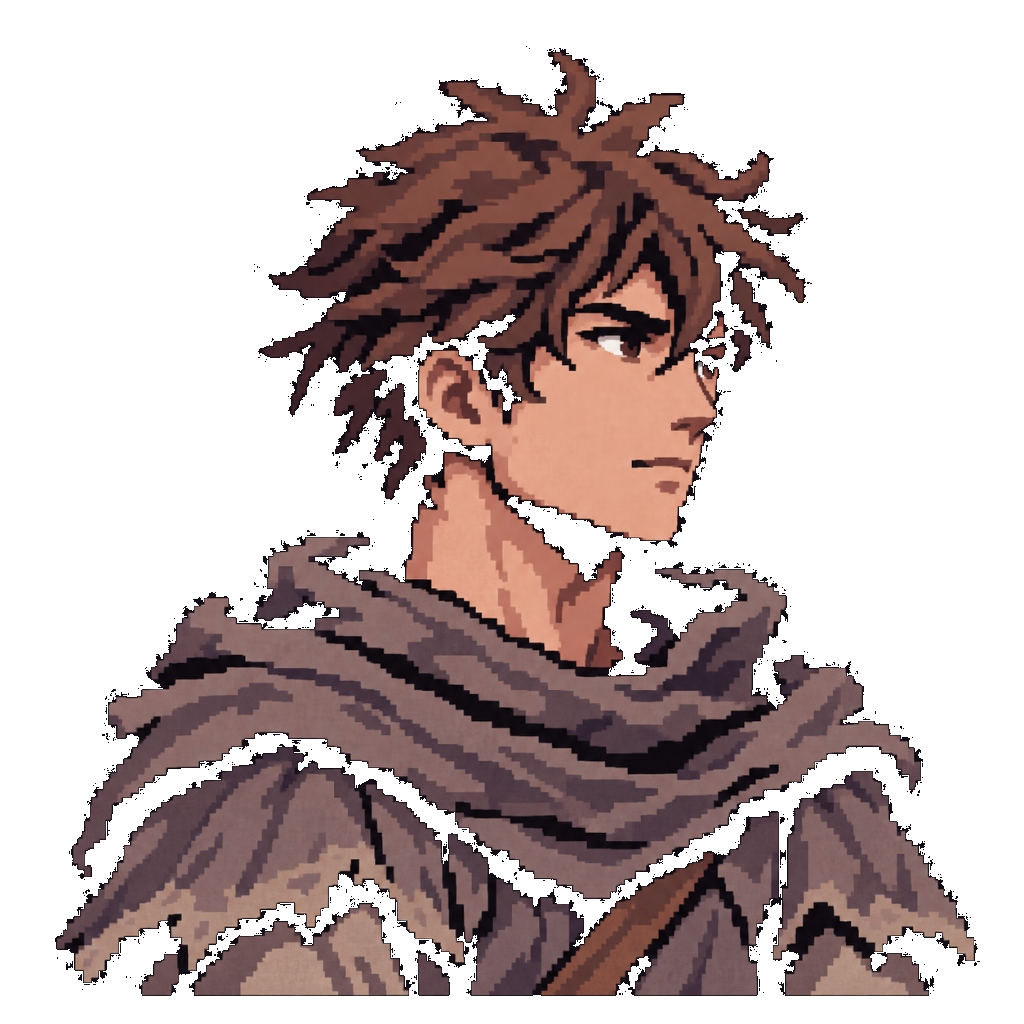
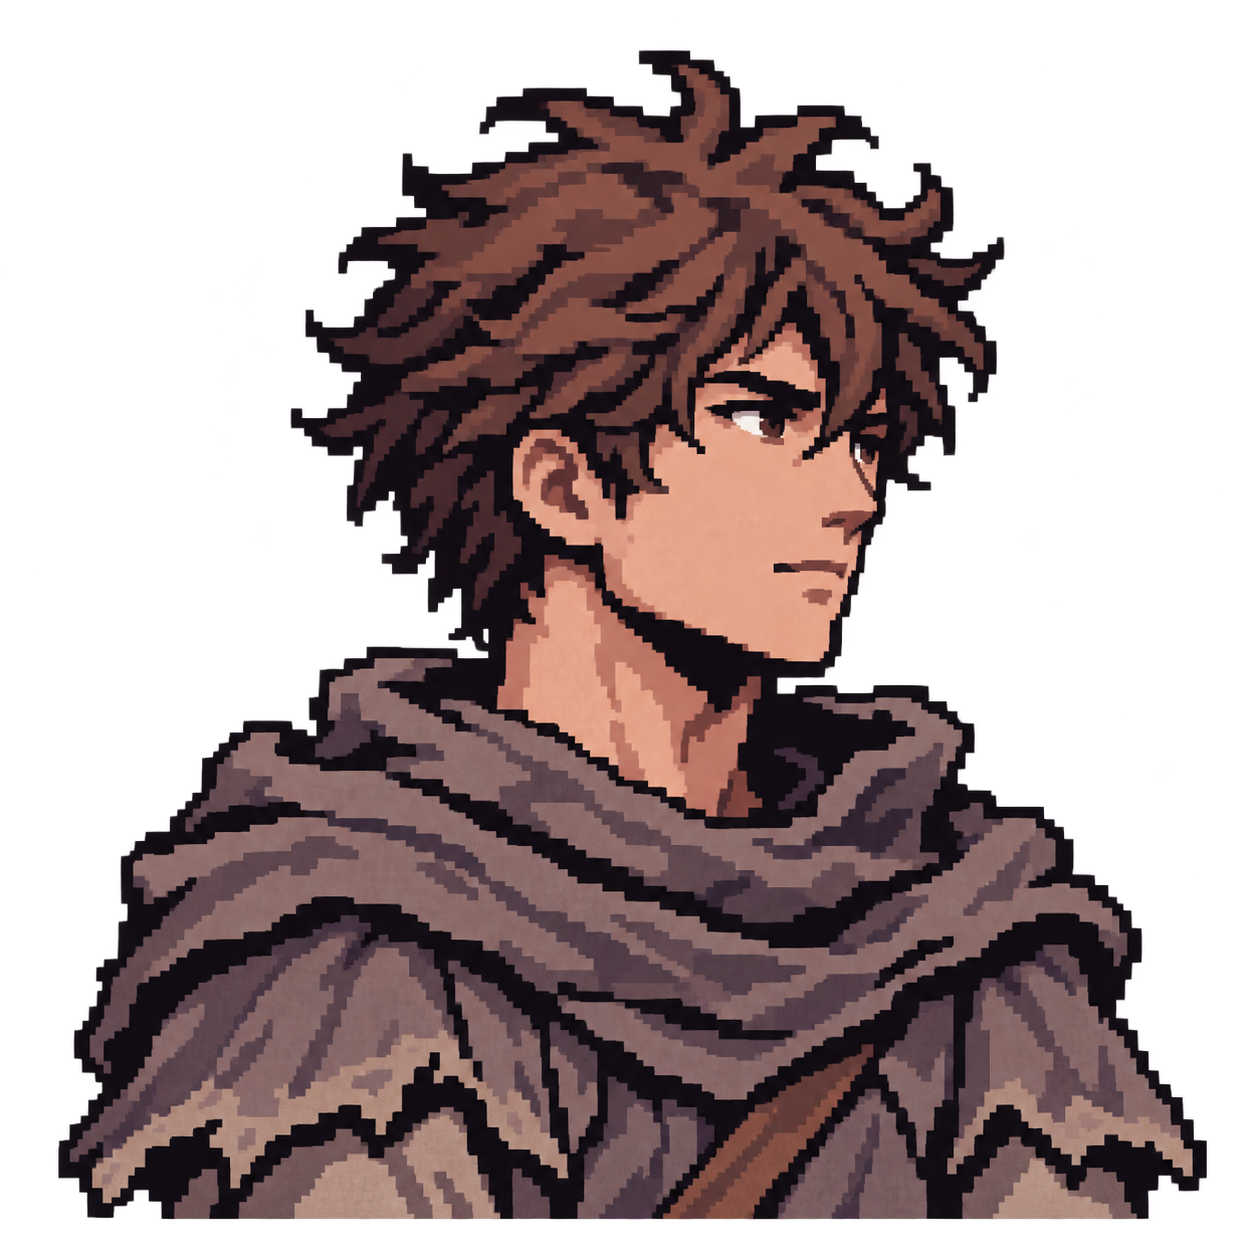
feat(assets): integrate Thomas 4-frame walk animation cycle, high-definition portraits, and master cinematic illustrations

diff --git a/src/presentation/scenes/GameScene.ts b/src/presentation/scenes/GameScene.ts
@@ -25,9 +25,9 @@ export class GameScene extends Phaser.Scene {
 
   // Visual Sprites & Ground Shadows
   private bgImage!: Phaser.GameObjects.Image;
-  private playerSprite!: Phaser.GameObjects.Image;
+  private playerSprite!: Phaser.GameObjects.Sprite;
   private playerShadow!: Phaser.GameObjects.Ellipse;
-  private allySprite!: Phaser.GameObjects.Image;
+  private allySprite!: Phaser.GameObjects.Sprite;
   private allyShadow!: Phaser.GameObjects.Ellipse;
   private shalemSprite!: Phaser.GameObjects.Image;
   private shalemShadow!: Phaser.GameObjects.Ellipse;
@@ -178,6 +178,16 @@ export class GameScene extends Phaser.Scene {
     // 4.1 Atmospheric Vignette
     this.add.image(320, 180, 'fx_vignette').setDisplaySize(640, 360).setDepth(350).setAlpha(0.6);
 
+    // 4.2 Walking Animations
+    if (!this.anims.exists('thomas_walk_anim')) {
+      this.anims.create({
+        key: 'thomas_walk_anim',
+        frames: this.anims.generateFrameNumbers('thomas_walk', { start: 0, end: 3 }),
+        frameRate: 7,
+        repeat: -1
+      });
+    }
+
     // 5. Player & Shadows (2.5D Depth Arena)
     const initX = 110;
     const initY = 260;
@@ -185,7 +195,8 @@ export class GameScene extends Phaser.Scene {
 
     this.playerShadow = this.add.ellipse(initX, initY, 26, 8, 0x000000, 0.45).setDepth(initY - 1);
     const playerTex = this.player.id === 'thomas' ? 'thomas_idle' : 'khaterine_idle';
-    this.playerSprite = this.add.image(initX, initY, playerTex).setOrigin(0.5, 1).setDepth(initY);
+    const playerOriginY = this.player.id === 'thomas' ? 0.9 : 1.0;
+    this.playerSprite = this.add.sprite(initX, initY, playerTex).setOrigin(0.5, playerOriginY).setDepth(initY);
 
     // 6. Ally Companion (Walking alongside in 2.5D)
     const allyInitX = 65;
@@ -193,7 +204,8 @@ export class GameScene extends Phaser.Scene {
     this.allyChar.position = new Vector2(allyInitX, allyInitY);
     this.allyShadow = this.add.ellipse(allyInitX, allyInitY, 24, 7, 0x000000, 0.4).setDepth(allyInitY - 1);
     const allyTex = this.allyChar.id === 'thomas' ? 'thomas_idle' : 'khaterine_idle';
-    this.allySprite = this.add.image(allyInitX, allyInitY, allyTex).setOrigin(0.5, 1).setAlpha(0.92).setDepth(allyInitY);
+    const allyOriginY = this.allyChar.id === 'thomas' ? 0.9 : 1.0;
+    this.allySprite = this.add.sprite(allyInitX, allyInitY, allyTex).setOrigin(0.5, allyOriginY).setAlpha(0.92).setDepth(allyInitY);
 
     // 7. Shalem Sprite (Cat Companion in 2.5D)
     const catInitX = 85;
@@ -406,7 +418,7 @@ export class GameScene extends Phaser.Scene {
 
         // Spawn afterimage ghost
         const ghost = this.add.image(this.playerSprite.x, this.playerSprite.y, this.playerSprite.texture.key)
-          .setOrigin(0.5, 1)
+          .setOrigin(0.5, this.playerSprite.originY)
           .setAlpha(0.6)
           .setScale(this.playerSprite.scaleX, this.playerSprite.scaleY)
           .setTint(0x9933ff)
@@ -498,6 +510,13 @@ export class GameScene extends Phaser.Scene {
       }
       this.player.move(moveX, moveY);
 
+      // Play walk animation if player is Thomas and not disarmed
+      if (this.player.id === 'thomas' && !this.player.disarmManager.isPlayerDisarmed()) {
+        if (!this.playerSprite.anims.isPlaying || this.playerSprite.anims.currentAnim?.key !== 'thomas_walk_anim') {
+          this.playerSprite.play('thomas_walk_anim');
+        }
+      }
+
       // 2.5D Perspective Scaling (scale smoothly between 0.88 and 1.10)
       const scale = 0.88 + ((nextY - 205) / 110) * 0.22;
       this.playerSprite.setScale(this.player.facingDirection > 0 ? scale : -scale, scale);
@@ -507,12 +526,31 @@ export class GameScene extends Phaser.Scene {
       this.playerShadow.setPosition(nextX, nextY).setDepth(nextY - 1).setScale(scale);
     } else {
       this.player.move(0, 0);
+      if (this.player.id === 'thomas' &&
+          this.player.state !== CharacterState.ATTACKING &&
+          this.player.state !== CharacterState.DODGING) {
+        if (this.playerSprite.anims.isPlaying) {
+          this.playerSprite.stop();
+        }
+        const isDisarmed = this.player.disarmManager.isPlayerDisarmed();
+        const idleTex = isDisarmed ? 'thomas_disarmed' : 'thomas_idle';
+        if (this.playerSprite.texture.key !== idleTex) {
+          this.playerSprite.setTexture(idleTex);
+        }
+      }
     }
   }
 
   private swapActiveCharacter(): void {
     this.audio.playSfx('dodge');
     this.cameras.main.flash(200, 160, 80, 240);
+
+    if (this.playerSprite.anims.isPlaying) {
+      this.playerSprite.stop();
+    }
+    if (this.allySprite.anims.isPlaying) {
+      this.allySprite.stop();
+    }
 
     // Swap characters
     const temp = this.player;
@@ -528,12 +566,15 @@ export class GameScene extends Phaser.Scene {
     this.player.position = new Vector2(this.playerSprite.x, this.playerSprite.y);
     this.allyChar.position = new Vector2(this.allySprite.x, this.allySprite.y);
 
-    // Swap textures
+    // Swap textures and origins
     const playerTex = this.player.id === 'thomas' ? 'thomas_idle' : 'khaterine_idle';
     const allyTex = this.allyChar.id === 'thomas' ? 'thomas_idle' : 'khaterine_idle';
 
     this.playerSprite.setTexture(playerTex);
     this.allySprite.setTexture(allyTex);
+
+    this.playerSprite.setOrigin(0.5, this.player.id === 'thomas' ? 0.9 : 1.0);
+    this.allySprite.setOrigin(0.5, this.allyChar.id === 'thomas' ? 0.9 : 1.0);
 
     this.triggerShalemBalloon(
       `Shalem: «¡Ahora juegas como ${this.player.name}! ${this.player.id === 'khaterine' ? '¡Purifica las sombras con tus rezos!' : '¡Avanza con tu espada y tus puños!' }»`,
@@ -751,6 +792,9 @@ export class GameScene extends Phaser.Scene {
   }
 
   private executeAttack(isHeavy: boolean): void {
+    if (this.playerSprite.anims.isPlaying) {
+      this.playerSprite.stop();
+    }
     const isDisarmed = this.player.disarmManager.isPlayerDisarmed();
     const attackTex = isDisarmed
       ? 'thomas_disarmed'
@@ -1386,11 +1430,25 @@ export class GameScene extends Phaser.Scene {
     // Ally follows smoothly in 2.5D
     const allyTargetX = px - 45 * facing;
     const allyTargetY = py - 4;
+    const allyDist = Math.hypot(allyTargetX - this.allySprite.x, allyTargetY - this.allySprite.y);
     this.allySprite.x = Phaser.Math.Linear(this.allySprite.x, allyTargetX, 0.08);
     this.allySprite.y = Phaser.Math.Linear(this.allySprite.y, allyTargetY, 0.08);
     this.allySprite.setFlipX(facing < 0);
     this.allySprite.setDepth(this.allySprite.y);
     this.allyShadow.setPosition(this.allySprite.x, this.allySprite.y).setDepth(this.allySprite.y - 1);
+
+    if (this.allyChar.id === 'thomas') {
+      if (allyDist > 3.0) {
+        if (!this.allySprite.anims.isPlaying || this.allySprite.anims.currentAnim?.key !== 'thomas_walk_anim') {
+          this.allySprite.play('thomas_walk_anim');
+        }
+      } else {
+        if (this.allySprite.anims.isPlaying) {
+          this.allySprite.stop();
+          this.allySprite.setTexture('thomas_idle');
+        }
+      }
+    }
 
     // Shalem Cat follows smoothly in 2.5D
     const catTargetX = px - 22 * facing;

diff --git a/src/presentation/scenes/BootScene.ts b/src/presentation/scenes/BootScene.ts
@@ -9,6 +9,10 @@ export class BootScene extends Phaser.Scene {
   public preload(): void {
     // 1. Custom character sprites from public/assets/characters/
     this.load.image('thomas_idle', '/assets/characters/thomas_idle.png');
+    this.load.spritesheet('thomas_walk', '/assets/characters/thomas_walk.png', {
+      frameWidth: 96,
+      frameHeight: 80
+    });
     this.load.image('thomas_attack', '/assets/characters/thomas_attack.png');
     this.load.image('thomas_disarmed', '/assets/characters/thomas_disarmed.png');
     this.load.image('portrait_thomas', '/assets/characters/portrait_thomas.png');
@@ -39,13 +43,13 @@ export class BootScene extends Phaser.Scene {
     this.load.image('boss_astaroth', '/assets/characters/boss_astaroth.png');
     this.load.image('portrait_astaroth', '/assets/characters/portrait_astaroth.png');
 
-    // 2. Load the official artwork images from the public folder
-    this.load.image('title_cover', '/assets/title_cover.jpg');
-    this.load.image('loading_shalem_wall', '/assets/loading/loading_shalem_wall.jpg');
-    this.load.image('loading_bridge_journey', '/assets/loading/loading_bridge_journey.jpg');
-    this.load.image('loading_londinium_gate', '/assets/loading/loading_londinium_gate.jpg');
-    this.load.image('loading_pyre_remains', '/assets/loading/loading_pyre_remains.jpg');
-    this.load.image('loading_concept_art', '/assets/loading/loading_concept_art.jpg');
+    // 2. Load the pristine artwork images from the public folder
+    this.load.image('title_cover', '/assets/title_cover.png');
+    this.load.image('loading_shalem_wall', '/assets/loading/shalem-opening.png');
+    this.load.image('loading_bridge_journey', '/assets/loading/road-to-londinium.png');
+    this.load.image('loading_londinium_gate', '/assets/loading/londinium-gates.png');
+    this.load.image('loading_pyre_remains', '/assets/loading/oakhaven-aftermath.png');
+    this.load.image('loading_concept_art', '/assets/loading/shalem-opening.png');
   }
 
   public create(): void {

diff --git a/src/presentation/scenes/LoadingScene.ts b/src/presentation/scenes/LoadingScene.ts
@@ -69,19 +69,19 @@ export class LoadingScene extends Phaser.Scene {
   public preload(): void {
     // Ensure all 5 high-resolution artwork images are cached
     if (!this.textures.exists('loading_shalem_wall')) {
-      this.load.image('loading_shalem_wall', '/assets/loading/loading_shalem_wall.jpg');
+      this.load.image('loading_shalem_wall', '/assets/loading/shalem-opening.png');
     }
     if (!this.textures.exists('loading_bridge_journey')) {
-      this.load.image('loading_bridge_journey', '/assets/loading/loading_bridge_journey.jpg');
+      this.load.image('loading_bridge_journey', '/assets/loading/road-to-londinium.png');
     }
     if (!this.textures.exists('loading_londinium_gate')) {
-      this.load.image('loading_londinium_gate', '/assets/loading/loading_londinium_gate.jpg');
+      this.load.image('loading_londinium_gate', '/assets/loading/londinium-gates.png');
     }
     if (!this.textures.exists('loading_pyre_remains')) {
-      this.load.image('loading_pyre_remains', '/assets/loading/loading_pyre_remains.jpg');
+      this.load.image('loading_pyre_remains', '/assets/loading/oakhaven-aftermath.png');
     }
     if (!this.textures.exists('loading_concept_art')) {
-      this.load.image('loading_concept_art', '/assets/loading/loading_concept_art.jpg');
+      this.load.image('loading_concept_art', '/assets/loading/shalem-opening.png');
     }
   }
 

diff --git a/src/presentation/scenes/MenuModalScene.ts b/src/presentation/scenes/MenuModalScene.ts
@@ -177,8 +177,8 @@ export class MenuModalScene extends Phaser.Scene {
 
     // Left Column: Character Card
     const cardBg = this.add.rectangle(-160, 10, 180, 200, 0x1d142e).setStrokeStyle(1, 0x6e4b8a);
-    const portraitKey = isThomas ? 'portrait_thomas' : 'khaterine_idle';
-    const portrait = this.add.image(-160, -40, portraitKey).setScale(2.0);
+    const portraitKey = isThomas ? 'portrait_thomas' : 'portrait_khaterine';
+    const portrait = this.add.image(-160, -40, portraitKey).setDisplaySize(72, 72);
 
     const nameText = this.add.text(-160, 5, isThomas ? 'THOMAS' : 'KHATERINE', {
       fontFamily: 'Cinzel, Georgia, serif',

diff --git a/src/presentation/scenes/CharacterDialogueScene.ts b/src/presentation/scenes/CharacterDialogueScene.ts
@@ -204,7 +204,7 @@ export class CharacterDialogueScene extends Phaser.Scene {
     // Left Portrait Box
     this.leftPortrait = this.add.image(65, 275, 'portrait_thomas').setDisplaySize(68, 68);
     // Right Portrait Box
-    this.rightPortrait = this.add.image(575, 275, 'khaterine_idle').setDisplaySize(68, 68).setVisible(false);
+    this.rightPortrait = this.add.image(575, 275, 'portrait_khaterine').setDisplaySize(68, 68).setVisible(false);
 
     // Speaker Name Banner
     this.speakerNameText = this.add.text(115, 225, 'THOMAS', {

diff --git a/src/presentation/scenes/StoryIntroScene.ts b/src/presentation/scenes/StoryIntroScene.ts
@@ -101,7 +101,7 @@ export class StoryIntroScene extends Phaser.Scene {
     this.add.rectangle(320, 280, 572, 112, 0x000000, 0).setStrokeStyle(1, 0x5a3e75);
 
     // Shalem Portrait inside Dialog Box
-    this.add.image(62, 275, 'portrait_shalem').setScale(2.0);
+    this.add.image(62, 275, 'portrait_shalem').setDisplaySize(72, 72);
 
     // Speaker Name Banner
     this.add.text(105, 230, 'SHALEM — GRAN MARQUÉS DE LAS BRASAS', {
